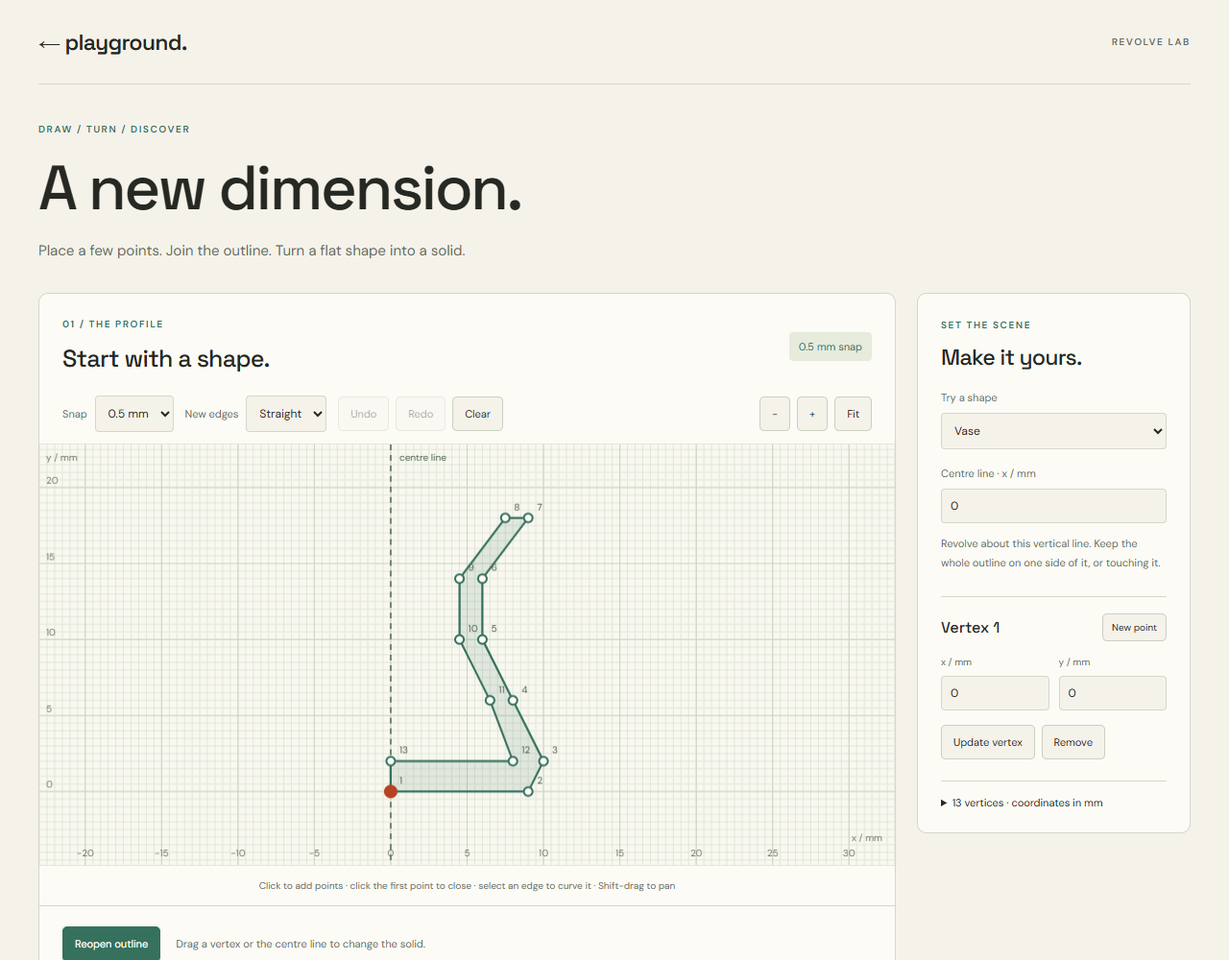
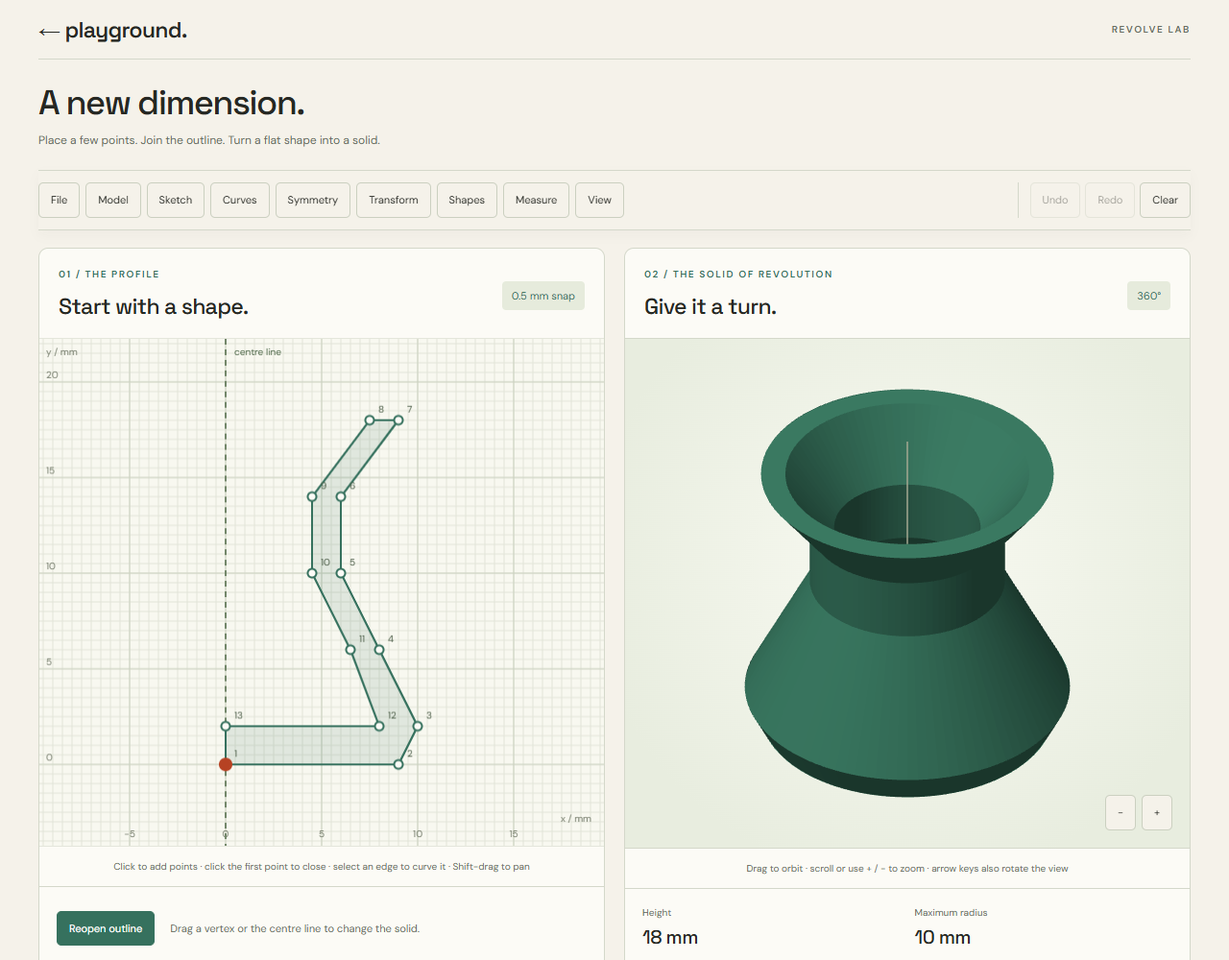
Move modelling controls into sticky top tool menus

diff --git a/revolve/index.html b/revolve/index.html
@@ -1,5 +1,5 @@
 <!doctype html>
-<html lang="en"><head><meta charset="utf-8"><meta name="viewport" content="width=device-width,initial-scale=1"><title>Revolve lab · Playground</title><meta name="description" content="Draw a grid-snapped outline, revolve or extrude it, preview the solid in 3D and export a printable STL."><link rel="icon" href="../favicon.svg"><link rel="stylesheet" href="style.css?v=8"></head>
+<html lang="en"><head><meta charset="utf-8"><meta name="viewport" content="width=device-width,initial-scale=1"><title>Revolve lab · Playground</title><meta name="description" content="Draw a grid-snapped outline, revolve or extrude it, preview the solid in 3D and export a printable STL."><link rel="icon" href="../favicon.svg"><link rel="stylesheet" href="style.css?v=9"></head>
 <body><main>
  <header><a href="../">← playground.</a><span>REVOLVE LAB</span></header>
  <section class="heading"><p class="eyebrow">DRAW / TURN / DISCOVER</p><h1>A new dimension.</h1><p>Place a few points. Join the outline. Turn a flat shape into a solid.</p></section>
@@ -9,7 +9,7 @@
   <section class="panel editor-panel" aria-labelledby="editor-title">
    <div class="panel-heading"><div><p class="eyebrow">01 / THE PROFILE</p><h2 id="editor-title">Start with a shape.</h2></div><span id="grid-readout" class="badge">0.5 mm snap</span></div>
    <div class="toolbar"><label>Snap <select id="snap"><option value="0.5">0.5 mm</option><option value="1">1 mm</option><option value="2">2 mm</option><option value="5">5 mm</option></select></label><label>New edges <select id="draw-type"><option value="line">Straight</option><option value="bezier">Bézier</option></select></label><label class="check"><input id="show-dimensions" type="checkbox"> Dimensions</label><button id="undo" disabled>Undo</button><button id="redo" disabled>Redo</button><button id="clear">Clear</button><span class="spacer"></span><button id="zoom-out" aria-label="Zoom out of drawing">−</button><button id="zoom-in" aria-label="Zoom into drawing">+</button><button id="fit">Fit</button></div>
-   <canvas id="editor" tabindex="0" role="application" aria-label="Profile editor. Click to add vertices. Click the first vertex to close. Drag vertices, Bézier handles or the dashed centre line. Select a vertex then use arrow keys to move it, or Delete to remove it. Shift-drag to pan. Arrow keys also move a selected handle. Numeric editing is available beside the canvas."></canvas>
+   <canvas id="editor" tabindex="0" role="application" aria-label="Profile editor. Click to add vertices. Click the first vertex to close. Drag vertices, Bézier handles or the dashed centre line. Select a vertex then use arrow keys to move it, or Delete to remove it. Shift-drag to pan. Arrow keys also move a selected handle. Numeric editing is available in the Sketch and Curves menus."></canvas>
    <p class="canvas-help">Click to add points · click the first point to close · select an edge to curve it · Shift-drag to pan</p>
    <div class="editor-bottom"><button id="close-profile" class="primary">Reopen outline</button><p id="profile-status" role="status" aria-live="polite"></p></div>
    <section class="curve-settings" aria-labelledby="curve-heading"><div class="curve-summary"><p class="eyebrow">BEND THE OUTLINE</p><h2 id="curve-heading">Shape the edge.</h2><p id="edge-title" class="hint">Select a vertex or edge.</p><label class="field">Edge type<select id="edge-type"><option value="line">Straight</option><option value="bezier">Bézier curve</option></select></label><div class="split-controls"><label class="field">Split position / %<input id="split-position" type="number" min="1" max="99" step="1" value="50"></label><button id="split-edge">Split selected edge</button></div><p id="curve-help" class="hint">A curve starts as a straight line. Drag its two orange handles to bend it. Handles snap to the grid.</p></div><form id="curve-form" novalidate hidden><fieldset><legend>Handle 1 · near the start</legend><div class="coordinates"><label>x / mm<input id="c1-x" type="number" step="0.5" min="-1000" max="1000"></label><label>y / mm<input id="c1-y" type="number" step="0.5" min="-1000" max="1000"></label></div></fieldset><fieldset><legend>Handle 2 · near the end</legend><div class="coordinates"><label>x / mm<input id="c2-x" type="number" step="0.5" min="-1000" max="1000"></label><label>y / mm<input id="c2-y" type="number" step="0.5" min="-1000" max="1000"></label></div></fieldset><button type="submit">Apply handles</button></form></section>
@@ -29,7 +29,7 @@
  </div>
  <section class="panel cad-panel" aria-labelledby="cad-title"><div class="panel-heading"><div><p class="eyebrow">PRECISION TOOLS</p><h2 id="cad-title">Make it fit.</h2></div></div><div class="cad-grid">
  <section><h3>Move &amp; transform</h3><label class="field">Apply to<select id="transform-scope"><option value="outline">Selected outline</option><option value="shape">Selected shape + cut-outs</option><option value="all">All shapes</option></select></label><label class="field">Transform about<select id="transform-pivot"><option value="centre">Selection centre</option><option value="origin">Grid origin (0, 0)</option></select></label><div class="coordinates"><label>Move x / mm<input id="move-x" type="number" value="5" step="0.5"></label><label>Move y / mm<input id="move-y" type="number" value="0" step="0.5"></label></div><div class="cad-buttons"><button id="move-outline">Move</button><button id="duplicate-shape">Duplicate with offset</button></div><label class="field">Rotation / degrees<input id="rotate-degrees" type="number" value="90" step="1"></label><button id="rotate-outline">Rotate</button><div class="coordinates"><label>Scale x / %<input id="scale-x" type="number" min="0.01" value="100" step="1"></label><label>Scale y / %<input id="scale-y" type="number" min="0.01" value="100" step="1"></label></div><div class="cad-buttons"><button id="scale-outline">Scale</button><button id="mirror-horizontal">Mirror left/right</button><button id="mirror-vertical">Mirror up/down</button></div><p class="hint">Transforms include curve handles and preserve precision without resnapping. Duplication uses the move offsets and copies the selected shape with its cut-outs.</p></section>
- <section><h3>Draw a precise shape</h3><label class="field">Shape<select id="primitive-kind"><option value="rectangle">Rectangle</option><option value="circle">Circle / B?zier arcs</option><option value="polygon">Regular polygon</option></select></label><div class="coordinates"><label><span id="primitive-width-label">Width / mm</span><input id="primitive-width" type="number" min="0.1" step="0.5" value="20"></label><label>Height / mm<input id="primitive-height" type="number" min="0.1" step="0.5" value="20"></label></div><label class="field" id="polygon-sides-field" hidden>Polygon sides<input id="primitive-sides" type="number" min="3" max="32" value="6" step="1"></label><div class="coordinates"><label>Centre x / mm<input id="primitive-x" type="number" value="10" step="0.5"></label><label>Centre y / mm<input id="primitive-y" type="number" value="10" step="0.5"></label></div><div class="cad-buttons"><button id="replace-primitive">Replace selected outline</button><button id="add-primitive">Add as shape</button><button id="cut-primitive">Add as cut-out</button></div><p class="hint">Add shapes or cut-outs in extrusion mode. Existing symmetry is retained before adding independent details. Circles use four editable cubic arcs; exported surfaces are approximated.</p></section>
+ <section><h3>Draw a precise shape</h3><label class="field">Shape<select id="primitive-kind"><option value="rectangle">Rectangle</option><option value="circle">Circle / B&eacute;zier arcs</option><option value="polygon">Regular polygon</option></select></label><div class="coordinates"><label><span id="primitive-width-label">Width / mm</span><input id="primitive-width" type="number" min="0.1" step="0.5" value="20"></label><label>Height / mm<input id="primitive-height" type="number" min="0.1" step="0.5" value="20"></label></div><label class="field" id="polygon-sides-field" hidden>Polygon sides<input id="primitive-sides" type="number" min="3" max="32" value="6" step="1"></label><div class="coordinates"><label>Centre x / mm<input id="primitive-x" type="number" value="10" step="0.5"></label><label>Centre y / mm<input id="primitive-y" type="number" value="10" step="0.5"></label></div><div class="cad-buttons"><button id="replace-primitive">Replace selected outline</button><button id="add-primitive">Add as shape</button><button id="cut-primitive">Add as cut-out</button></div><p class="hint">Add shapes or cut-outs in extrusion mode. Existing symmetry is retained before adding independent details. Circles use four editable cubic arcs; exported surfaces are approximated.</p></section>
  <section><h3>Measure &amp; resize</h3><dl id="sketch-measurements"><dt>Outline width</dt><dd id="measure-width">?</dd><dt>Outline height</dt><dd id="measure-height">?</dd><dt>Outline area</dt><dd id="measure-area">?</dd><dt>Perimeter / path length</dt><dd id="measure-perimeter">?</dd><dt>Selected edge length</dt><dd id="measure-edge">?</dd><dt>Edge chord angle</dt><dd id="measure-angle">?</dd></dl><div class="coordinates"><label>Target width / mm<input id="resize-width" type="number" min="0.1" step="0.5" value="20"></label><label>Target height / mm<input id="resize-height" type="number" min="0.1" step="0.5" value="20"></label></div><button id="resize-outline">Resize to dimensions</button><p class="hint">Resize uses the transform selection and pivot. Measurements describe the selected outline. Curved lengths and areas use a fine approximation; angles describe the endpoint chord.</p></section>
  </div><p id="cad-status" class="canvas-help" role="status">Every modelling operation can be undone.</p></section>
  <section class="panel solid-panel" aria-labelledby="solid-title">
@@ -42,4 +42,4 @@
  </section>
  <section class="explanation"><h2 id="explanation-title">A line becomes a surface.</h2><p id="explanation-mode">Every point on the outline sweeps a circle around the centre line. Points further from the line trace larger circles. An edge touching the line can close a solid; an outline away from it can leave a hole through the middle.</p><p>The grid and measurements use millimetres as model units, rather than physical screen measurements. Straight edges make conical, cylindrical or flat surfaces. Cubic Bézier curves add rounded profiles using two control handles. Curved measurements and surfaces are approximated with short segments; STL exports use a finer approximation. Draw one simple outline without crossing edges; cut faces are included for a partial revolution. Extrusion adds a uniform thickness with closed front, back and side faces. Dimensions and measurements update live.</p></section>
  <footer><span>playground.</span><p>A small change of perspective.</p><a href="../">Back to the collection ↗</a></footer>
-</main><noscript>This interactive editor needs JavaScript enabled.</noscript><script src="geometry.js?v=8"></script><script src="extrusion.js?v=8"></script><script src="renderer.js?v=2"></script><script src="vendor/clipper-6.4.2.js"></script><script src="vendor/earcut-2.2.4.js"></script><script src="symmetry.js?v=8"></script><script src="retained.js?v=8"></script><script src="project.js?v=8"></script><script src="cad.js?v=8"></script><script src="simulation.js?v=8"></script></body></html>
+</main><noscript>This interactive editor needs JavaScript enabled.</noscript><script src="geometry.js?v=8"></script><script src="extrusion.js?v=8"></script><script src="renderer.js?v=2"></script><script src="vendor/clipper-6.4.2.js"></script><script src="vendor/earcut-2.2.4.js"></script><script src="symmetry.js?v=8"></script><script src="retained.js?v=8"></script><script src="project.js?v=8"></script><script src="cad.js?v=8"></script><script src="menus.js?v=1"></script><script src="simulation.js?v=9"></script></body></html>

diff --git a/revolve/menus.js b/revolve/menus.js
@@ -1,0 +1,27 @@
+(()=>{
+ 'use strict';const $=id=>document.getElementById(id),native=typeof HTMLElement.prototype.showPopover==='function',bar=document.createElement('nav');bar.className='tool-menu-bar';bar.setAttribute('aria-label','Modelling tools');
+ const workspace=document.querySelector('.editor-layout'),editor=document.querySelector('.editor-panel'),solid=document.querySelector('.solid-panel'),oldToolbar=document.querySelector('.toolbar'),cad=document.querySelector('.cad-panel'),cadSections=[...cad.querySelectorAll('.cad-grid>section')],panels=new Map();
+ document.querySelector('.project-tools').before(bar);
+ function close(panel,returnFocus=false){if(native){if(panel.matches(':popover-open'))panel.hidePopover();}else panel.hidden=true;const button=panels.get(panel.id).button;button.setAttribute('aria-expanded','false');if(returnFocus)button.focus({preventScroll:true});}
+ function position(panel){const {button}=panels.get(panel.id),b=button.getBoundingClientRect(),r=bar.getBoundingClientRect(),height=window.visualViewport?.height||innerHeight,width=Math.min(panel.classList.contains('wide')?650:390,innerWidth-24),top=Math.max(8,Math.min(r.bottom+8,height-150));panel.style.width=width+'px';panel.style.left=Math.max(12,Math.min(b.left,innerWidth-width-12))+'px';panel.style.top=top+'px';panel.style.maxHeight=Math.max(100,height-top-12)+'px';}
+ function open(panel){for(const entry of panels.values())if(entry.panel!==panel)close(entry.panel);position(panel);if(native)panel.showPopover();else panel.hidden=false;const {button}=panels.get(panel.id);button.setAttribute('aria-expanded','true');requestAnimationFrame(()=>{panel.querySelector('input:not([type=hidden]):not([disabled]),select:not([disabled]),button:not([disabled]):not(.tool-close)')?.focus({preventScroll:true});});}
+ function menu(key,label,title,wide=false){const button=document.createElement('button'),panel=document.createElement('section'),heading=document.createElement('div'),h=document.createElement('h2'),dismiss=document.createElement('button'),body=document.createElement('div');panel.id='tool-'+key;panel.className='tool-popover'+(wide?' wide':'');panel.setAttribute('role','dialog');panel.setAttribute('aria-modal','false');panel.setAttribute('aria-labelledby','tool-title-'+key);if(native){panel.setAttribute('popover','auto');button.setAttribute('popovertarget',panel.id);}else panel.hidden=true;button.type='button';button.textContent=label;button.dataset.toolTarget=panel.id;button.setAttribute('aria-controls',panel.id);button.setAttribute('aria-haspopup','dialog');button.setAttribute('aria-expanded','false');heading.className='tool-heading';h.id='tool-title-'+key;h.textContent=title;dismiss.type='button';dismiss.className='tool-close';dismiss.textContent='Close';dismiss.setAttribute('aria-label','Close '+label+' tools');dismiss.onclick=()=>close(panel,true);heading.append(h,dismiss);body.className='tool-body';panel.append(heading,body);document.body.append(panel);bar.append(button);panels.set(panel.id,{panel,button,body});button.onclick=e=>{e.preventDefault();const showing=native?panel.matches(':popover-open'):!panel.hidden;showing?close(panel,true):open(panel);};panel.addEventListener('toggle',e=>{button.setAttribute('aria-expanded',String(e.newState==='open'));});return body;}
+ const file=menu('file','File','Save, load & export'),model=menu('model','Model','Build your solid'),sketch=menu('sketch','Sketch','Grid & vertices'),curves=menu('curves','Curves','Edit an edge',true),symmetry=menu('symmetry','Symmetry','Rotational symmetry'),transform=menu('transform','Transform','Move, scale & mirror'),shapes=menu('shapes','Shapes','Draw a precise shape'),measure=menu('measure','Measure','Inspect & resize'),view=menu('view','View','Views & display');
+ file.append(document.querySelector('.project-tools'),$('export-stl'),$('stl-status'));
+ model.append(document.querySelector('.mode-toolbar'));
+ const settings=document.querySelector('.settings');for(const child of [...settings.children])if(child.classList.contains('field')||child.classList.contains('hint'))model.append(child);
+ model.append($('animate'),document.querySelector('.angle-field'));
+ const quick=document.createElement('div');quick.className='tool-quick';quick.setAttribute('role','group');quick.setAttribute('aria-label','Quick edits');quick.append($('undo'),$('redo'),$('clear'));bar.append(quick);
+ view.append($('zoom-out'),$('zoom-in'),$('fit'));oldToolbar.querySelector('.spacer')?.remove();sketch.append(oldToolbar,settings);settings.querySelector('h2').textContent='Edit vertices';settings.querySelector('.eyebrow').remove();
+ curves.append(document.querySelector('.curve-settings'));
+ const symmetryNote=document.createElement('p');symmetryNote.className='hint';symmetryNote.textContent='Choose Extrude to a thickness in Model to use symmetry and retained outlines.';symmetry.append(symmetryNote,document.querySelector('.symmetry-settings'));
+ transform.append(cadSections[0]);shapes.append(cadSections[1]);measure.append(cadSections[2]);
+ const feedbackSource=$('cad-status');feedbackSource.hidden=true;document.body.append(feedbackSource);const feedback=[];for(const container of [transform,shapes,measure,curves]){const p=document.createElement('p');p.className='tool-feedback';p.setAttribute('role','status');container.append(p);feedback.push(p);}const reflectFeedback=()=>feedback.forEach(p=>{p.textContent=feedbackSource.textContent;p.classList.toggle('error',feedbackSource.classList.contains('error'));});new MutationObserver(reflectFeedback).observe(feedbackSource,{childList:true,subtree:true,attributes:true});reflectFeedback();
+ for(const input of ['wireframe','auto-rotate'])view.append($(input).closest('label'));view.append(document.querySelector('.view-choice'),$('reset-view'));
+ const jump=document.createElement('div');jump.className='view-jumps';for(const [target,label]of [['editor','Go to drawing'],['solid','Go to 3D preview']]){const button=document.createElement('button');button.textContent=label;button.onclick=()=>{close(view.closest('.tool-popover'));$(target).scrollIntoView({block:'start',behavior:'instant'});$(target).focus({preventScroll:true});};jump.append(button);}view.append(jump);
+ document.querySelector('.solid-controls').remove();cad.remove();workspace.querySelector('aside').remove();workspace.replaceChildren(editor,solid);workspace.className='modelling-workspace';document.body.classList.add('menu-workspace');
+ function modeChanged(){symmetryNote.hidden=$('mode').value==='extrude';}new MutationObserver(modeChanged).observe(document.body,{attributes:true,attributeFilter:['data-mode']});modeChanged();
+ document.addEventListener('keydown',e=>{if(e.key!=='Escape')return;for(const {panel}of panels.values()){const showing=native?panel.matches(':popover-open'):!panel.hidden;if(showing){e.preventDefault();close(panel,true);break;}}});
+ if(!native)document.addEventListener('pointerdown',e=>{for(const {panel,button}of panels.values())if(!panel.hidden&&!panel.contains(e.target)&&!button.contains(e.target))close(panel);});
+ function resize(){document.documentElement.style.setProperty('--tools-height',(bar.offsetHeight+16)+'px');for(const {panel}of panels.values())if(native?panel.matches(':popover-open'):!panel.hidden)position(panel);}new ResizeObserver(resize).observe(bar);window.addEventListener('resize',resize);window.visualViewport?.addEventListener('resize',resize);window.addEventListener('scroll',()=>{for(const {panel}of panels.values())if(native?panel.matches(':popover-open'):!panel.hidden)position(panel);},{passive:true});resize();
+})();

diff --git a/revolve/style.css b/revolve/style.css
@@ -12,3 +12,6 @@
 .project-tools{display:flex;align-items:center;flex-wrap:wrap;gap:12px 20px;margin:-8px 0 24px}.project-tools>div{display:flex;gap:8px}.project-tools p{margin:0;font-size:11px;line-height:1.7}.project-tools p.error{color:var(--orange)}
 
 .cad-panel{margin-top:24px}.cad-grid{display:grid;grid-template-columns:repeat(3,minmax(0,1fr));gap:28px;padding:20px 24px}.cad-grid>section{min-width:0}.cad-grid h3{font:500 19px "Space Grotesk",sans-serif;margin:8px 0 16px}.cad-grid .hint{margin-top:16px}.cad-buttons{display:flex;gap:7px;flex-wrap:wrap}.cad-buttons button{flex:1 1 auto}.cad-grid input{width:100%}.cad-grid dl{margin:20px 0}.cad-grid dt{font-size:10px;color:var(--muted);margin-top:14px}.cad-grid dd{margin:5px 0 0;font-size:15px;color:var(--green)}.view-choice{display:flex;align-items:center;gap:8px;font-size:11px}.view-choice select{padding:7px}.split-controls{display:flex;align-items:end;gap:10px;margin-top:12px}.split-controls .field{margin:0!important}.split-controls input{width:100px}.split-controls button{margin-bottom:0}.cad-panel .canvas-help.error{color:var(--orange)}@media(max-width:850px){.cad-grid{grid-template-columns:1fr 1fr}.cad-grid>section:last-child{grid-column:1/-1}}@media(max-width:540px){.cad-grid{grid-template-columns:1fr;padding:18px;gap:18px}.cad-grid>section+section{border-top:1px solid var(--line);padding-top:14px}.cad-grid>section:last-child{grid-column:auto}.split-controls{flex-wrap:wrap}}
+
+/* The workspace keeps all modelling controls in non-modal top menus. */
+.menu-workspace header{height:62px}.menu-workspace .heading{padding:18px 0 20px}.menu-workspace .heading h1{font-size:36px;letter-spacing:-1.5px;margin:8px 0}.menu-workspace .heading>.eyebrow{display:none}.menu-workspace .heading>p:last-child{font-size:12px;margin:0}.tool-menu-bar{position:sticky;top:0;z-index:30;display:flex;align-items:center;flex-wrap:wrap;gap:6px;padding:12px 0;margin-bottom:18px;background:var(--paper);border-block:1px solid var(--line);box-shadow:0 5px 12px #26282308}.tool-menu-bar>button{padding:9px 12px}.tool-menu-bar>button[aria-expanded=true]{background:#e6ebdc;border-color:var(--green);color:var(--green)}.tool-quick{display:flex;gap:5px;margin-left:auto;padding-left:12px;border-left:1px solid var(--line)}.modelling-workspace{--stage-height:clamp(300px,calc(100dvh - 470px),650px);display:grid;grid-template-columns:1fr 1fr;gap:20px;align-items:start}.modelling-workspace>.solid-panel{margin-top:0}.modelling-workspace #editor,.modelling-workspace #solid{height:var(--stage-height);scroll-margin-top:var(--tools-height,90px)}.modelling-workspace .panel-heading{min-height:85px;padding:18px 20px 12px;align-items:center}.modelling-workspace .panel-heading h2{font-size:23px}.modelling-workspace .editor-bottom{padding:12px 18px;min-height:88px}.modelling-workspace .metrics{padding:18px;gap:15px;grid-template-columns:1fr 1fr}.modelling-workspace .metrics strong{font-size:20px}.modelling-workspace .metrics span{margin-bottom:5px}.modelling-workspace .canvas-help{font-size:10px}.tool-popover{position:fixed;inset:auto;margin:0;padding:0;border:1px solid var(--line);border-radius:10px;background:#fcfbf6;color:var(--ink);box-shadow:0 14px 45px #26282326;overflow:auto;overscroll-behavior:contain;font:14px 'DM Sans',sans-serif;z-index:100}.tool-popover::backdrop{background:transparent}.tool-heading{position:sticky;top:0;z-index:1;display:flex;align-items:center;justify-content:space-between;gap:12px;padding:15px 18px;background:#fcfbf6;border-bottom:1px solid var(--line)}.tool-heading h2{font-size:20px;margin:0}.tool-close{padding:6px 9px;font-size:10px}.tool-body{padding:18px}.tool-body h3{font:500 19px 'Space Grotesk',sans-serif;margin:0 0 16px}.tool-body>.curve-settings{padding:0;border:0}.tool-body .curve-settings:not(.has-curve) .curve-summary{display:block}.tool-body .curve-settings .eyebrow,.tool-body .curve-settings h2,.tool-body .settings>h2,.tool-body .symmetry-settings>.eyebrow,.tool-body .symmetry-settings>h2{display:none}.tool-body .settings,.tool-body .symmetry-settings{display:block;padding:0!important;margin:0;border:0;background:transparent;border-radius:0;overflow:visible}.tool-body .toolbar{display:flex;gap:12px;align-items:start;padding:0 0 18px;border-bottom:1px solid var(--line)}.tool-body .toolbar label{display:flex;font-size:11px}.tool-body .point-heading{margin-top:18px}.tool-body .mode-toolbar{display:block;padding:0;margin:0;border:0;border-radius:0;background:transparent}.tool-body .mode-toolbar label{display:block;margin-bottom:10px}.tool-body .mode-toolbar select{width:100%}.tool-body .mode-toolbar p{font-size:11px;min-width:0;margin:10px 0 18px}.tool-body .angle-field{display:grid;grid-template-columns:1fr auto;min-width:0;margin-top:18px;width:100%}.tool-body .angle-field input{grid-column:1/-1;grid-row:2}.tool-body .view-choice{display:flex;margin:18px 0}.tool-body>.check{margin-top:16px}.tool-body .coordinates input,.tool-body .field input{width:100%}.tool-body .project-tools{display:block;margin:0}.tool-body .project-tools>div{flex-wrap:wrap}.tool-body #project-status{margin:12px 0 18px}.tool-body #stl-status{text-align:left;margin:12px 0 0}.tool-body .hint{font-size:11px;line-height:1.8}.tool-body .field:first-child{margin-top:0}.tool-body dl{margin:0 0 20px}.tool-body dt{font-size:10px;color:var(--muted);margin-top:14px}.tool-body dd{margin:5px 0 0;color:var(--green);font-size:15px}.tool-feedback{font-size:11px;line-height:1.7;color:var(--green);border-top:1px solid var(--line);padding-top:14px;margin:18px 0 0}.tool-feedback.error{color:var(--orange)}.view-jumps{display:flex;gap:8px;margin-top:18px;border-top:1px solid var(--line);padding-top:16px}@media(max-width:1050px){.tool-menu-bar>button{padding:8px 10px}.tool-quick{margin-left:0}.modelling-workspace{gap:14px}.modelling-workspace .panel-heading{padding-inline:16px}.modelling-workspace .badge{font-size:9px}}@media(max-width:760px){.modelling-workspace{grid-template-columns:1fr;--stage-height:340px}.tool-menu-bar{gap:5px;padding:9px 0}.tool-menu-bar>button{padding:8px 10px;font-size:10px}.tool-quick{padding-left:8px}.tool-quick button{padding:8px;font-size:10px}.menu-workspace .heading h1{font-size:30px}.menu-workspace .heading{padding:16px 0}.tool-body .curve-settings{grid-template-columns:1fr;gap:16px}.tool-body .curve-settings #curve-form{grid-template-columns:1fr 1fr}}@media(max-width:480px){.menu-workspace main{padding-inline:12px}.modelling-workspace{--stage-height:320px}.modelling-workspace .metrics{grid-template-columns:1fr 1fr}.tool-heading{padding:13px 16px}.tool-body{padding:16px}.tool-menu-bar>button{padding:8px}.tool-quick{margin-left:0}.modelling-workspace .editor-bottom{flex-direction:row;align-items:center;gap:12px}.modelling-workspace .editor-bottom p{font-size:10px}.tool-body .curve-settings #curve-form{grid-template-columns:1fr 1fr}}

diff --git a/revolve/simulation.js b/revolve/simulation.js
@@ -53,7 +53,7 @@
   $('mode-hint').textContent=extruding()?'Give your 2D outline a uniform thickness.':'Turn the outline around a vertical centre line.';
   $('solid-eyebrow').textContent=extruding()?'02 / THE EXTRUDED SOLID':'02 / THE SOLID OF REVOLUTION';$('solid-title').textContent=extruding()?'Give it some depth.':'Give it a turn.';$('width-label').textContent=extruding()?'Width':'Maximum radius';
   $('explanation-title').textContent=extruding()?'A shape becomes a solid.':'A line becomes a surface.';$('explanation-mode').textContent=extruding()?'Extrusion extends every point in the outline by the same thickness. A rectangle makes a cuboid; a triangle makes a triangular prism. Volume is the outline area multiplied by thickness. The front, back and side faces form a closed solid.':'Every point on the outline sweeps a circle around the centre line. Points further from the line trace larger circles. An edge touching the line can close a solid; an outline away from it can leave a hole through the middle.';
-  canvas.setAttribute('aria-label','Shape editor. Click to add grid-snapped vertices; click the first to close. Drag vertices or Bézier handles. '+(extruding()?'Choose extrusion thickness beside the canvas.':'Drag the dashed centre line to move the revolution axis.')+' Select a vertex or handle and use arrow keys to move it. Delete removes it. Shift-drag pans. Numeric editing is available beside the canvas.');
+  canvas.setAttribute('aria-label','Shape editor. Click to add grid-snapped vertices; click the first to close. Drag vertices or Bézier handles. '+(extruding()?'Choose extrusion thickness beside the canvas.':'Drag the dashed centre line to move the revolution axis.')+' Select a vertex or handle and use arrow keys to move it. Delete removes it. Shift-drag pans. Numeric editing is available in the Sketch and Curves menus.');
  }
  function presetUI(){const entries=extruding()?E.presets:G.presets,labels={rectangle:'Rectangle',triangle:'Triangle',bracket:'L-shaped bracket',vase:'Vase',cylinder:'Cylinder',cone:'Cone',tube:'Hollow tube'};$('preset').replaceChildren();for(const key of Object.keys(entries))$('preset').add(new Option(labels[key],key));const custom=new Option('Your outline','custom');custom.disabled=true;$('preset').add(custom);$('preset').value='custom';}
  const coordinateLimit=()=>retained?R.COORDINATE_LIMIT:1000;

diff --git a/revolve/README.md b/revolve/README.md
@@ -1,5 +1,13 @@
 # Revolve Lab
 
+## Top tool menus
+
+The sticky toolbar opens **File**, **Model**, **Sketch**, **Curves**, **Symmetry**, **Transform**, **Shapes**, **Measure** and **View** panels. Controls are moved into these menus, using the same underlying elements and modelling operations. Undo, Redo and Clear remain directly accessible. Drawing and 3D canvases sit beside each other on desktop and stack on smaller screens; the toolbar remains available while scrolling.
+
+Panels are non-modal: changes update the model immediately, and only one panel stays open at a time. Click the same tool button, its Close button, outside the panel, or press Escape to dismiss it. Escape and Close return focus to the invoking button. Menus fit within the viewport and scroll internally on smaller screens. File contains JSON save/load and STL export; Model contains revolution/extrusion, presets, axis, thickness and revolution animation. Sketch contains grid/vertex editing; Curves contains edge and handle editing. The other menus contain their corresponding precision and display tools. View also provides shortcuts to the drawing and 3D canvases.
+
+`menus.js` uses native popovers where available, with a JavaScript fallback. `tests/revolve-menus.cjs` checks every menu, live edits, focus and dismissal, sticky behaviour, responsive bounds and the fallback. Existing modelling browser checks use `tests/revolve-menu-helper.cjs` to open the menu owning each control before interacting; geometry and project-data checks are unchanged.
+
 ## Precision CAD tools
 
 **Move & transform** supports numeric XY offsets, rotation, independent X/Y scale percentages, horizontal/vertical reflection, and resizing to an exact bounding width and height. Choose a pivot at the selection's bounding-box centre or the grid origin. With retained geometry, transformations can target the selected outline, the selected shape and its cut-outs, or every shape. A rotational setup transforms its seed outline. Transformations include Bézier handles, preserve precision without resnapping, and reject nonfinite values or results outside the editor's coordinate bounds before changing anything.
